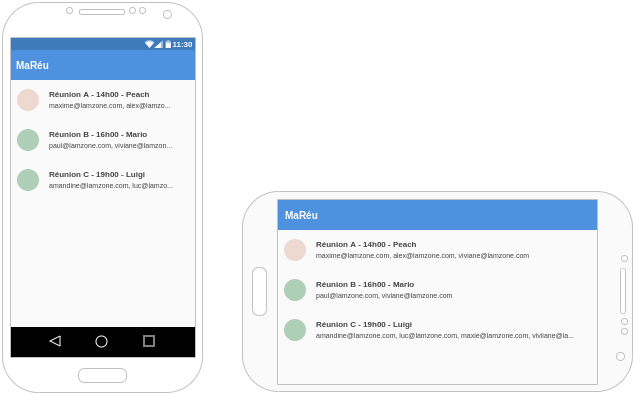
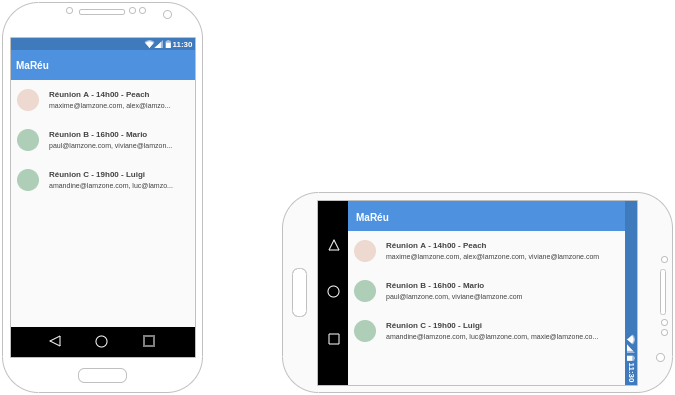
Docs: adding prototype of the new feature (v0.2)
- update prototype v0.1
  - adding prototype v0.2
  - adding sources

diff --git a/README.md b/README.md
@@ -84,3 +84,16 @@ Une réunion est représentée par la classe `Meeting` (nous
 n'affichons que les attributs) :  
 
 ![diagramme de classe UML "Meeting"](model_class_diagram_v0.1.png)  
+
+### Version 0.2
+
+Ajouter ou supprimer une réunion. Voici le prototype :  
+
+![prototype de la fonctionnalité "ajouter ou supprimer une réunion"](MaReu_v0.2.png)  
+
+## Sources
+
+[**Date & Time** - YouTube "Coding In Flow"](https://www.youtube.com/watch?v=Le47R9H3qow&list=PLrnPJCHvNZuAWIa1JCho4PGgNTNK0dfJ_)  
+[**Validate Email & Password with Regular Expression** - YouTube "Coding In Flow"](https://www.youtube.com/watch?v=cnD_7qFeZcY&list=PLrnPJCHvNZuBJwo9Zt3AQwpRax4RtrReD&index=5)  
+[**Search Functionality for RecyclerView** - YouTube "Coding In Flow"](https://www.youtube.com/watch?v=OWwOSLfWboY&list=PLrnPJCHvNZuBJwo9Zt3AQwpRax4RtrReD&index=7)  
+[**How to Filter a RecyclerView with SearchView** - YouTube "Coding In Flow"](https://www.youtube.com/watch?v=sJ-Z9G0SDhc)  
